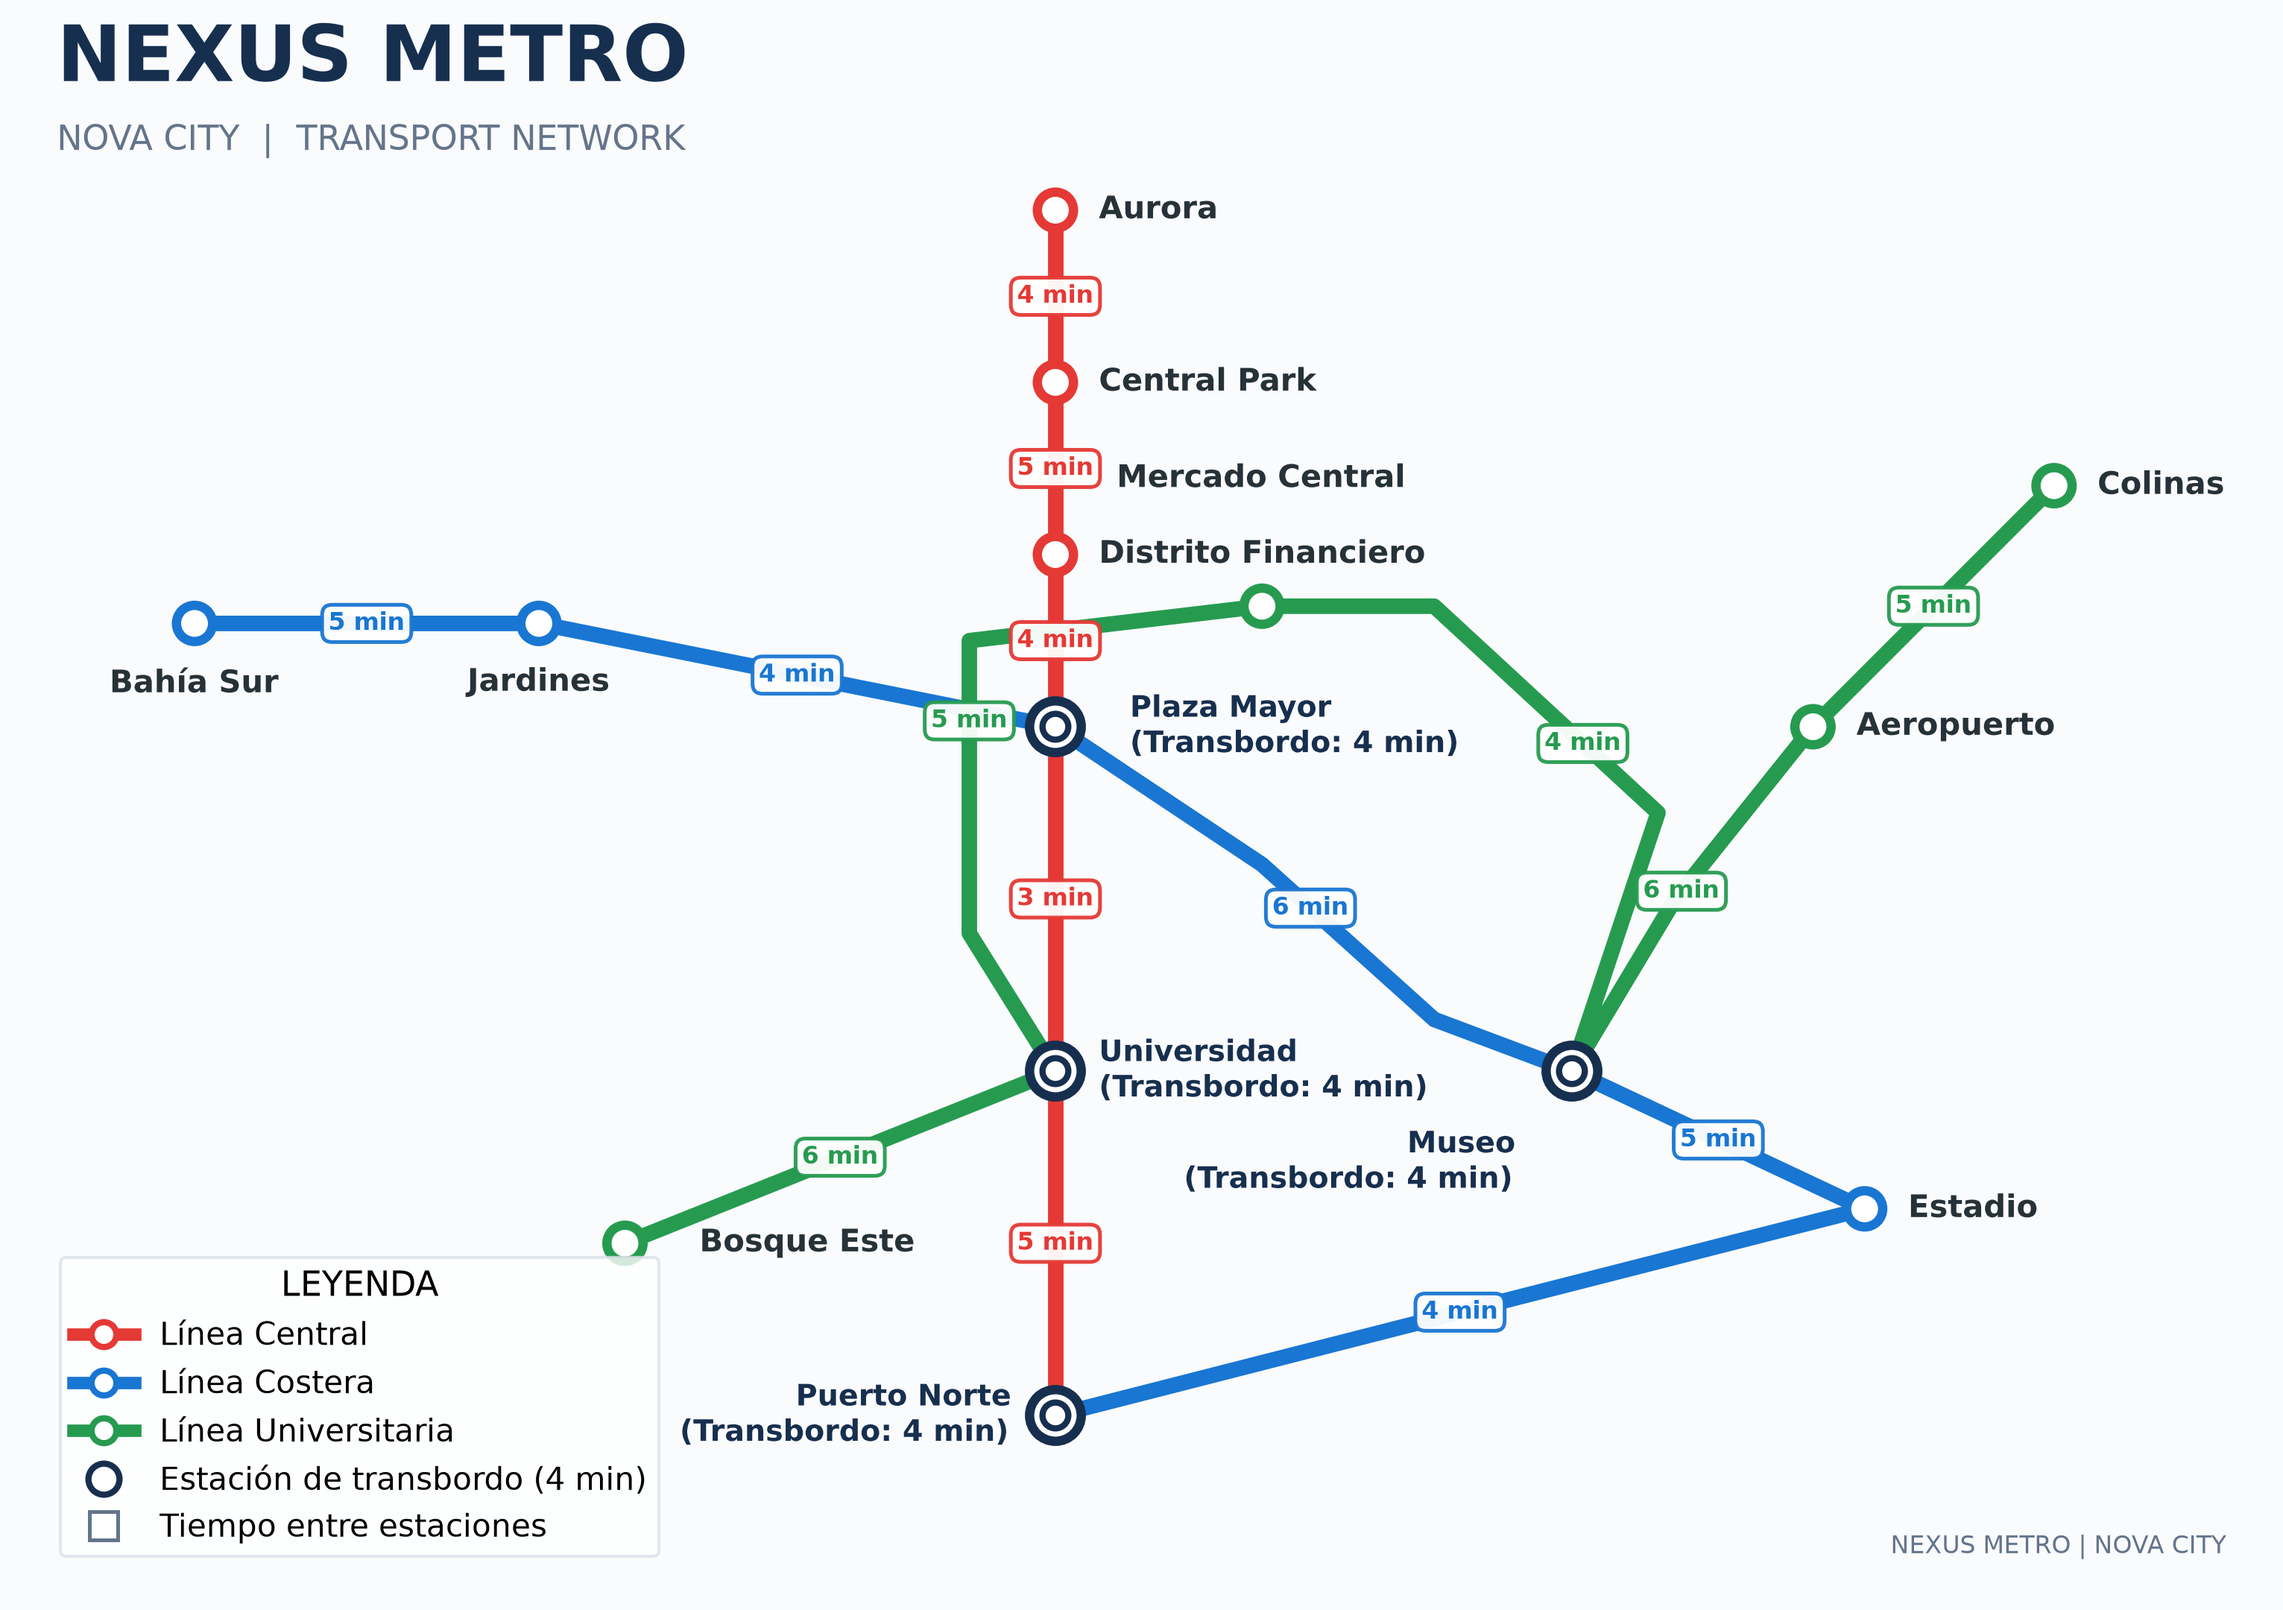
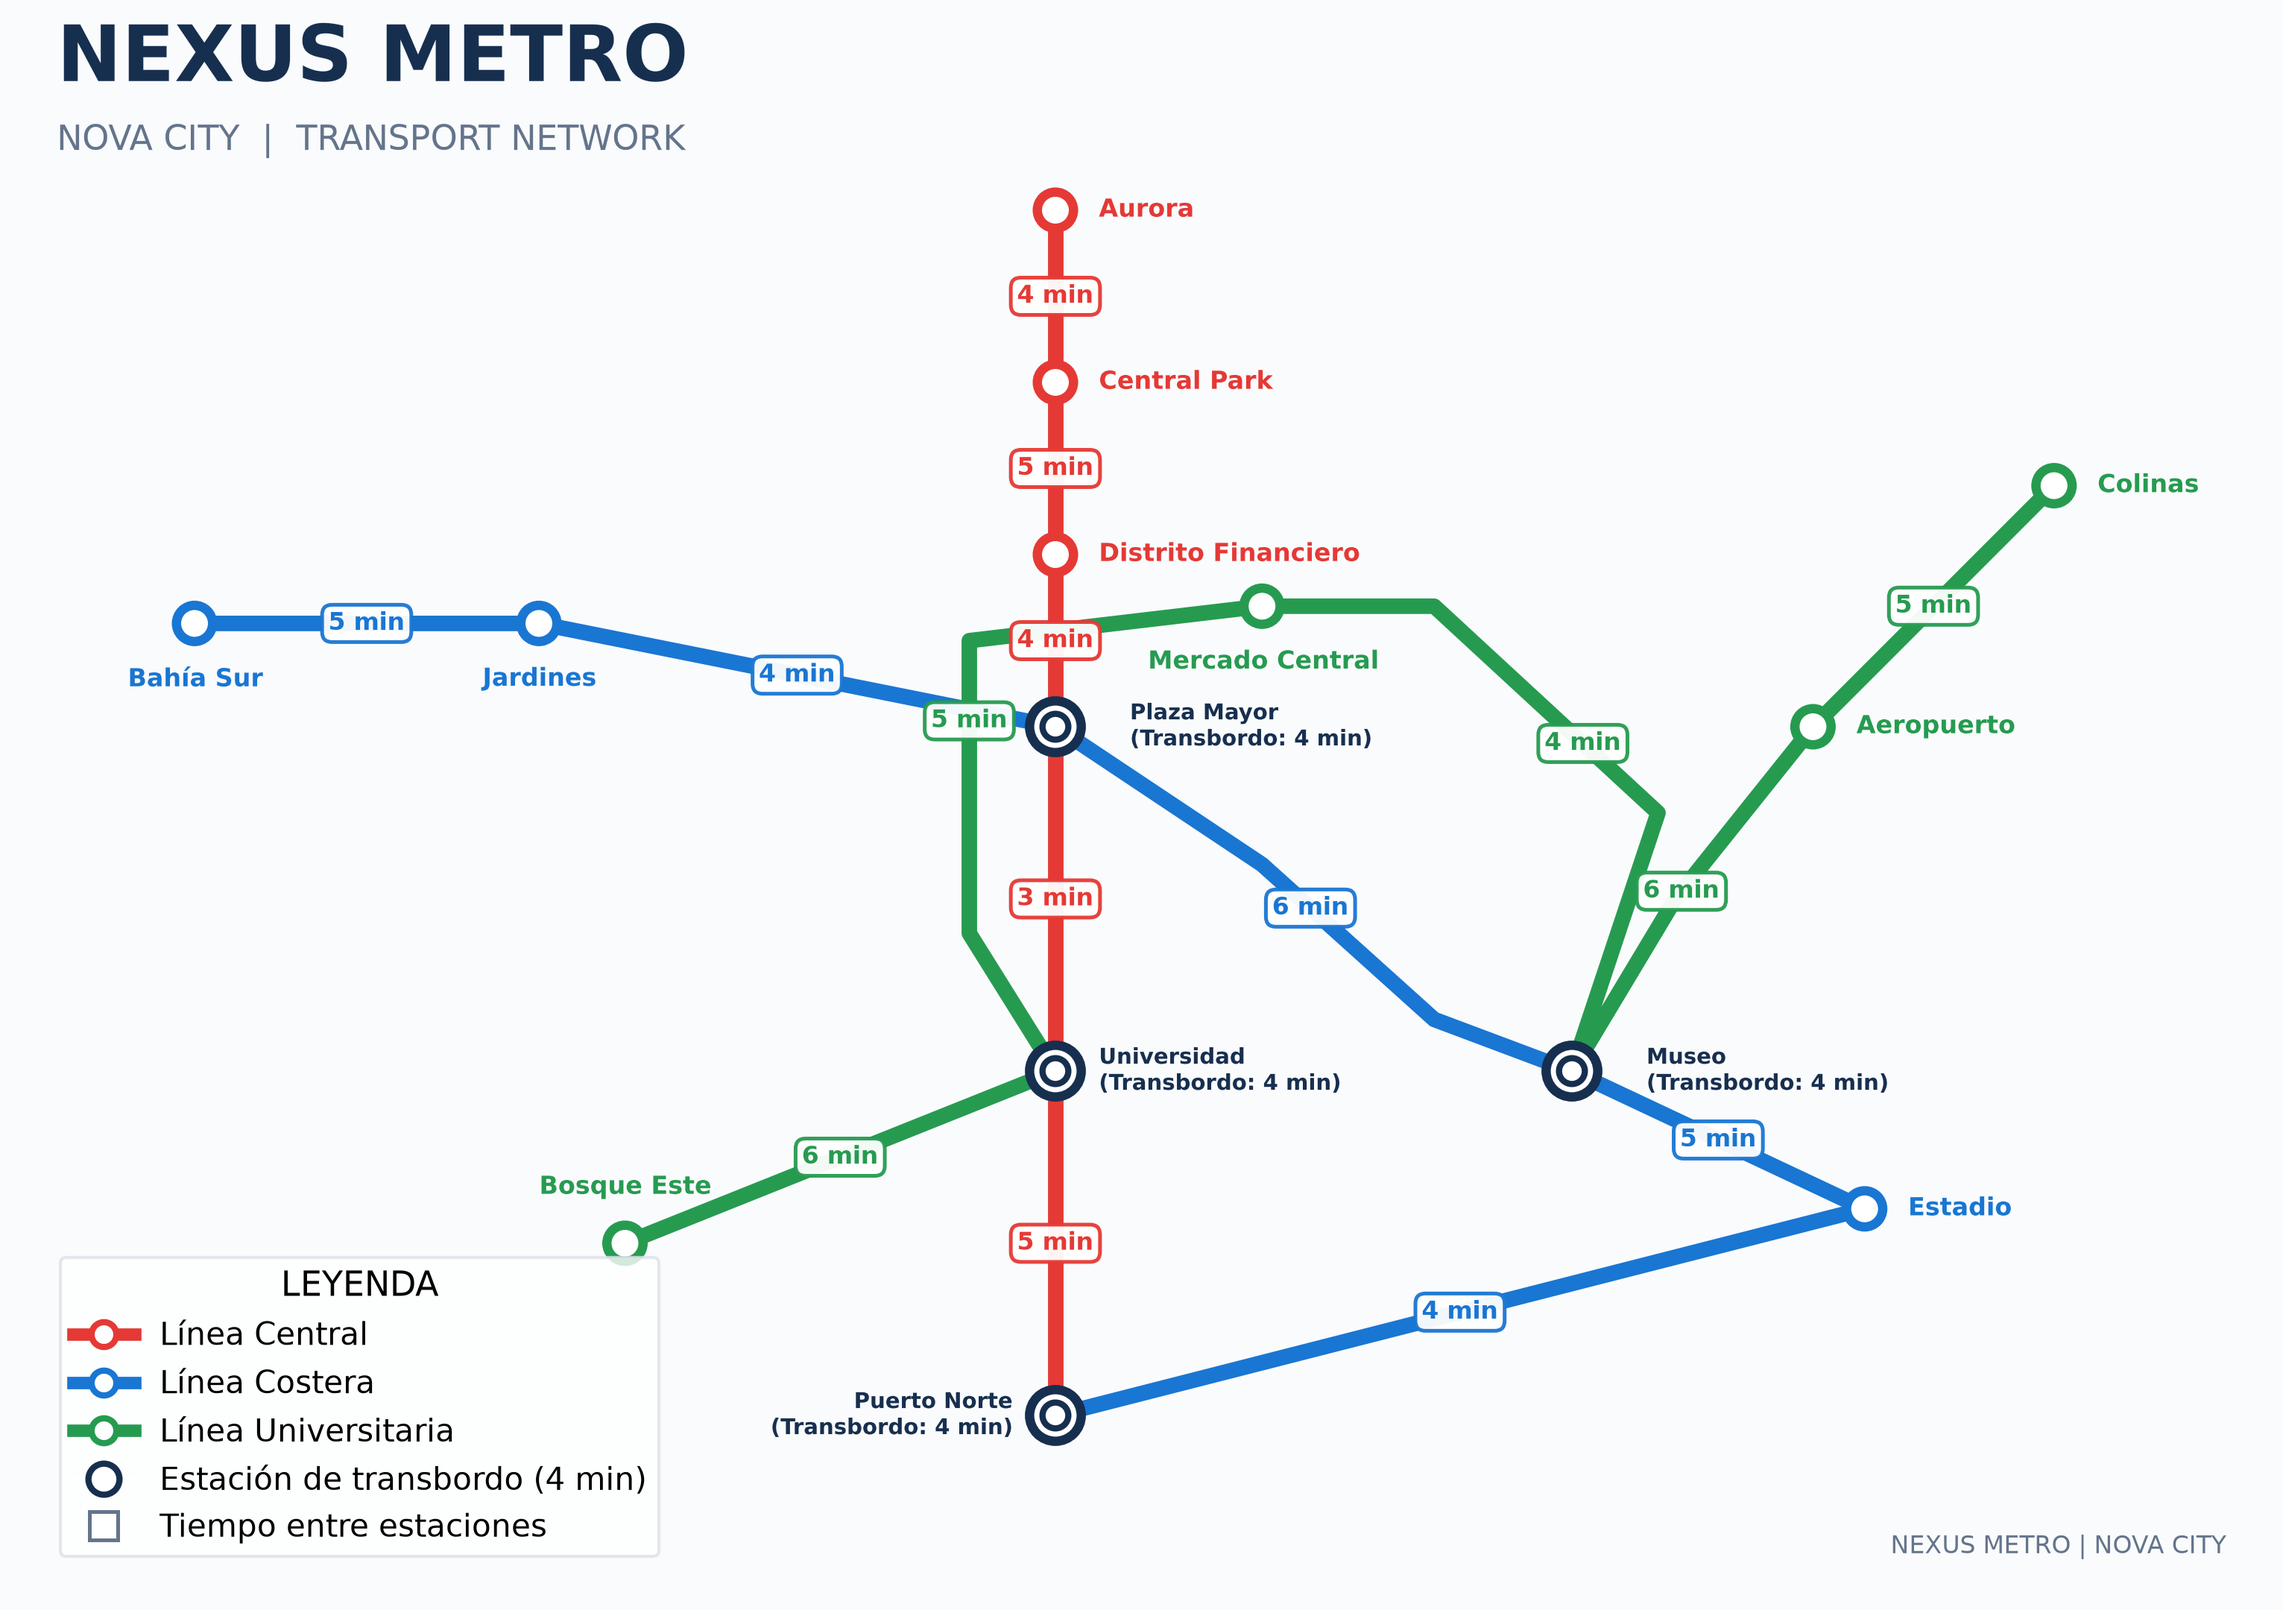
fix: adjust font sizes and colors for station display in metro map

diff --git a/map/nexus_metro_map.py b/map/nexus_metro_map.py
@@ -564,12 +564,16 @@ for station_name in ordered_stations:
 
     if station_name in TRANSFER_STATIONS:
         display_text = f"{station_name}\n(Transbordo: {TRANSFER_TIME} min)"
-        font_size = 9.5
+        font_size = 7
         font_color = COLORS["transfer"]
     else:
         display_text = station_name
-        font_size = 10
-        font_color = COLORS["text"]
+        font_size = 8
+        font_color = next(
+            LINES[ln]["color"]
+            for ln, line in LINES.items()
+            if station_name in line["stations"]
+        )
 
     text = ax.annotate(
         display_text,
